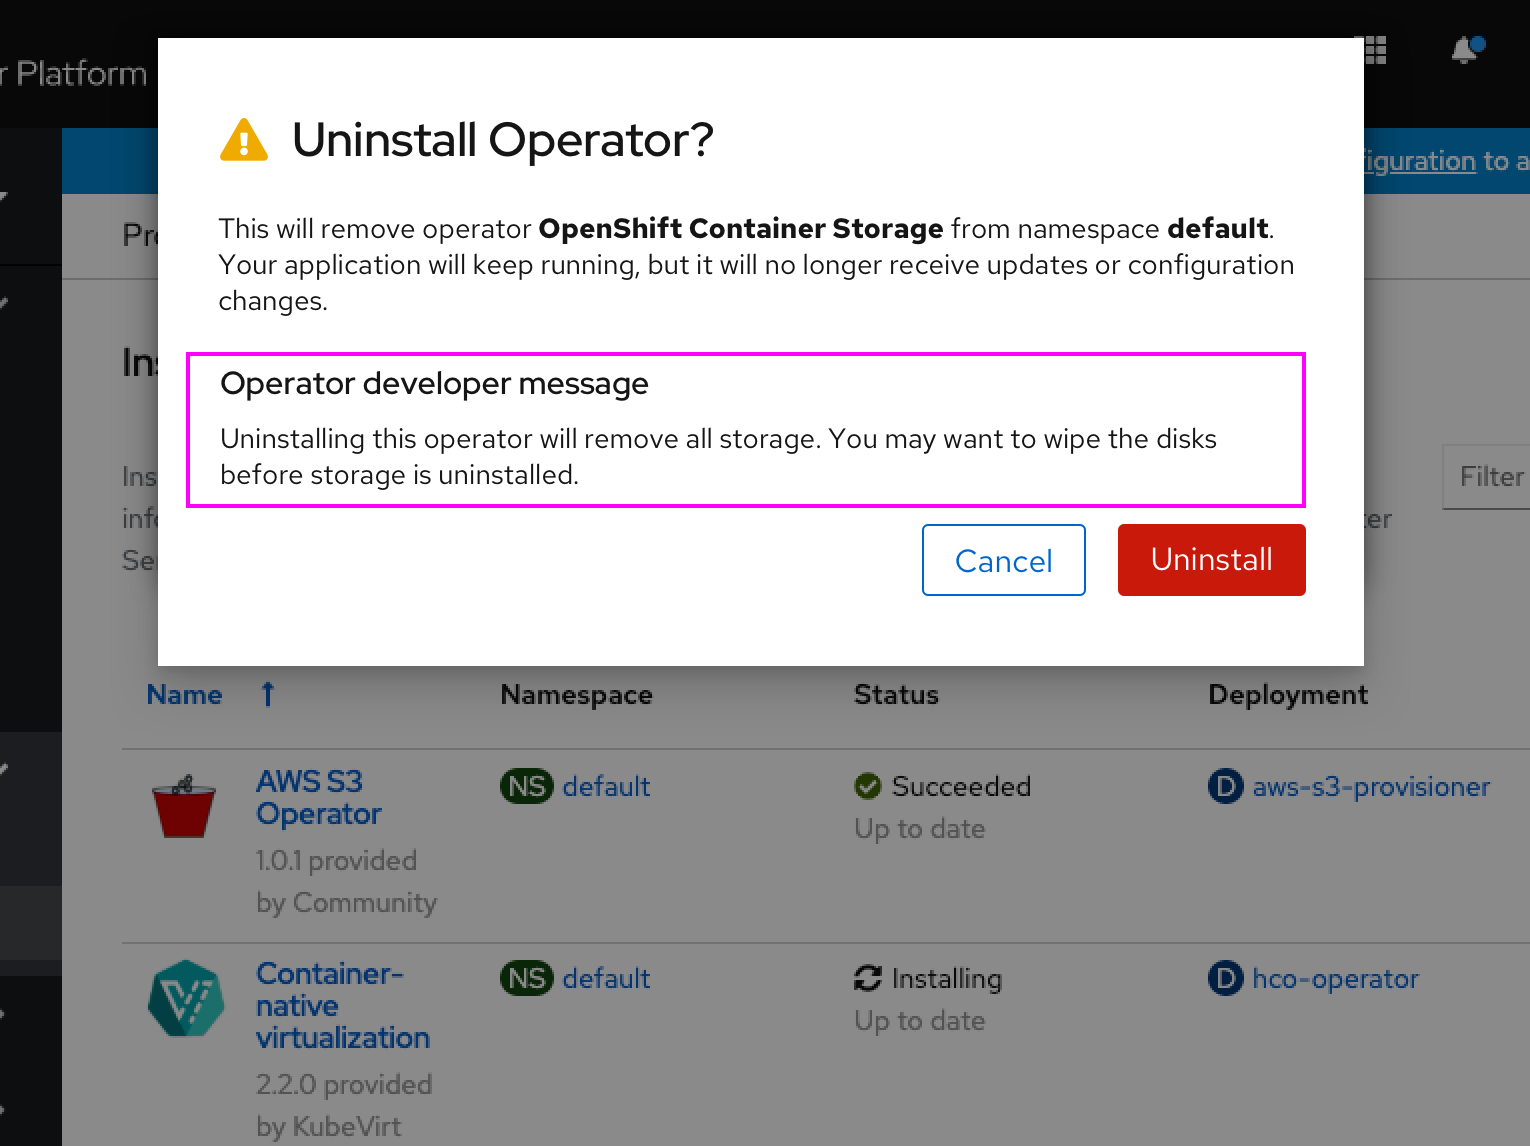
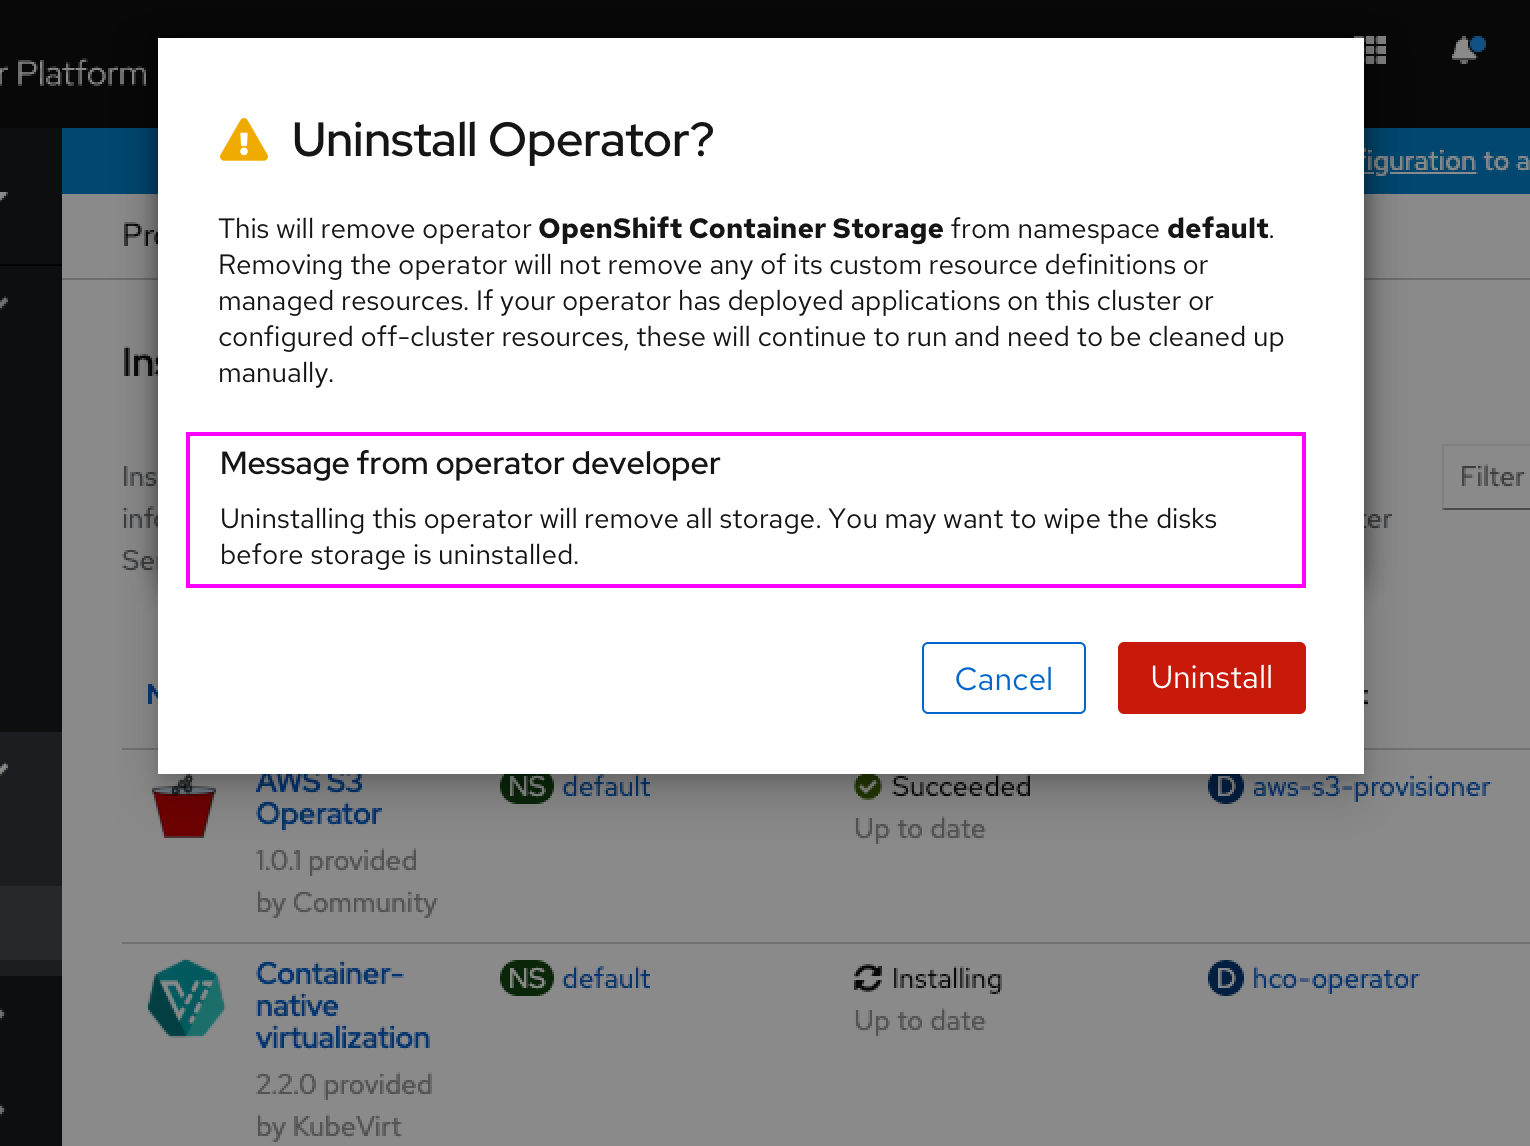
Updated text

Changed region(s): [[0.1229, 0.2138, 0.8601, 0.5192], [0.0922, 0.5497, 0.8908, 0.7024]]

diff --git a/designs/administrator/olm/custom-operator-delete-message/index.md b/designs/administrator/olm/custom-operator-delete-message/index.md
@@ -14,4 +14,5 @@ For example, when a storage operator is uninstalled, perhaps any associated data
 ## Uninstalling operator
 
 ![Cluster dashboard status card message click](img/1-1-header.png)
-- When the operator developer has specified a string in the new 'custom delete message' annotation, a new fixed header of **Operator developer message** appears in the uninstall operator dialog with the string beneath it
+- When the operator developer has specified a string in the new 'custom delete message' annotation, a new fixed header of **Message from operator developer** appears in the uninstall operator dialog with the string beneath it
+- Note: The generic operator uninstall text is updated in this design and would be ideally included in this change.
